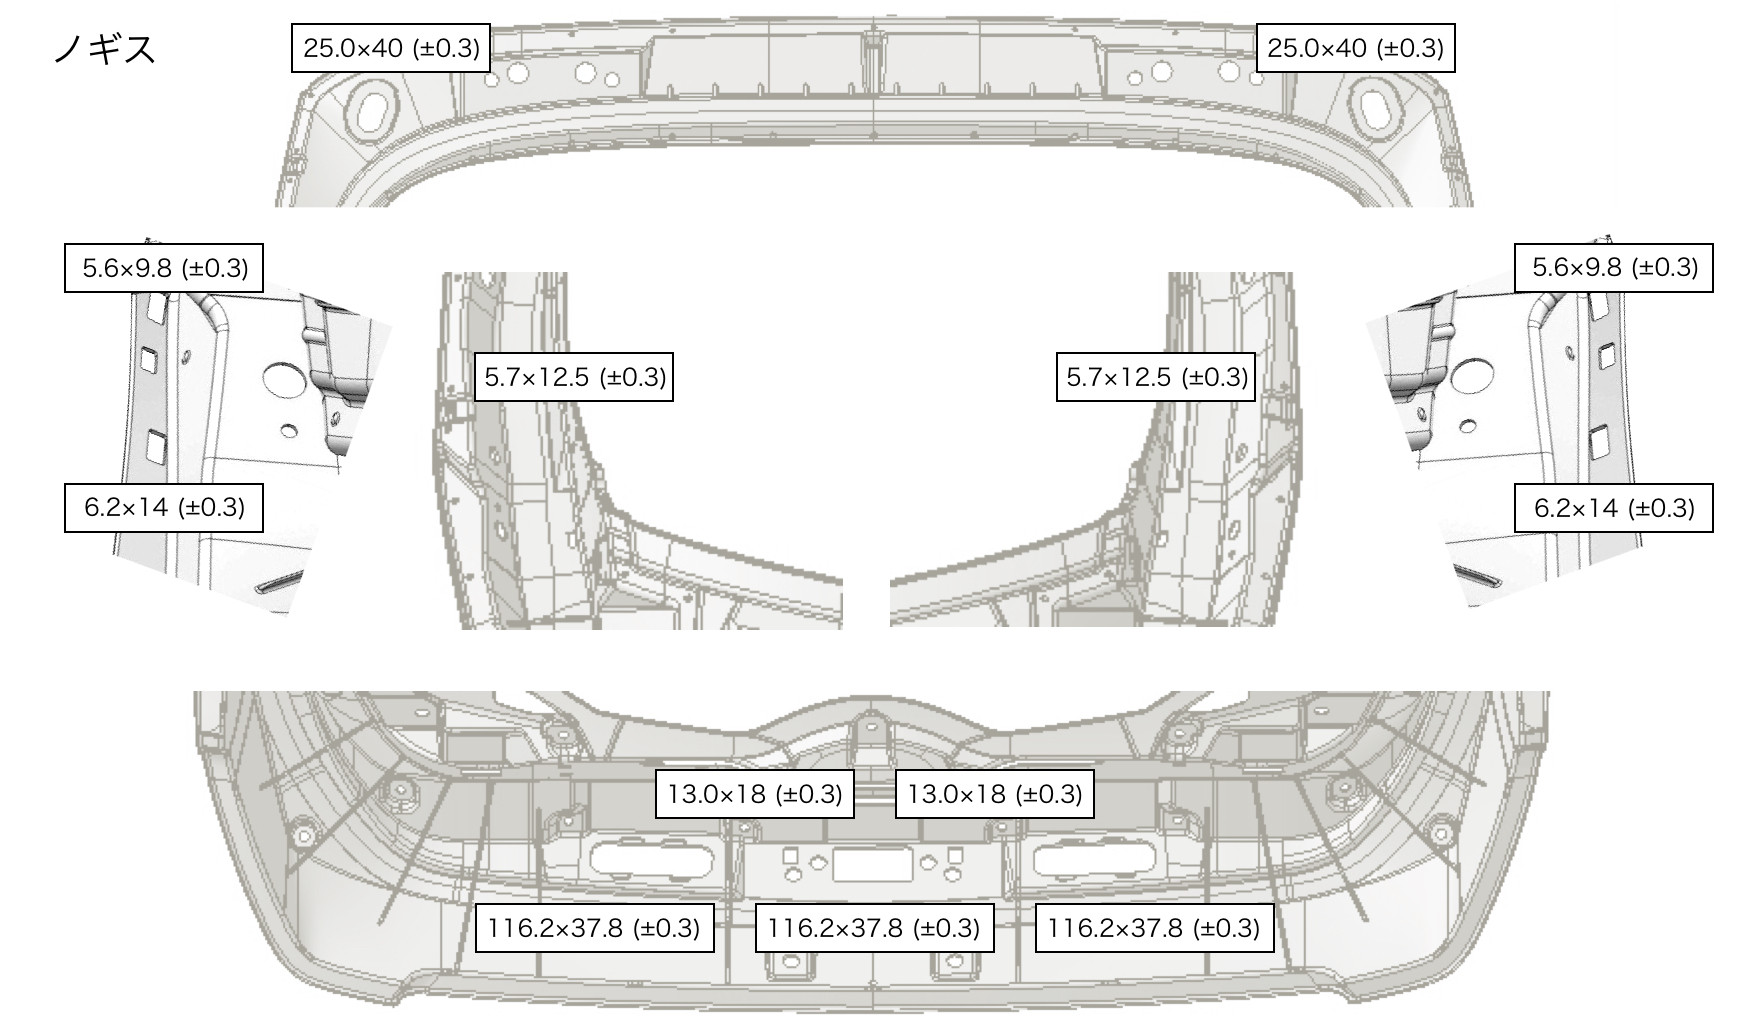
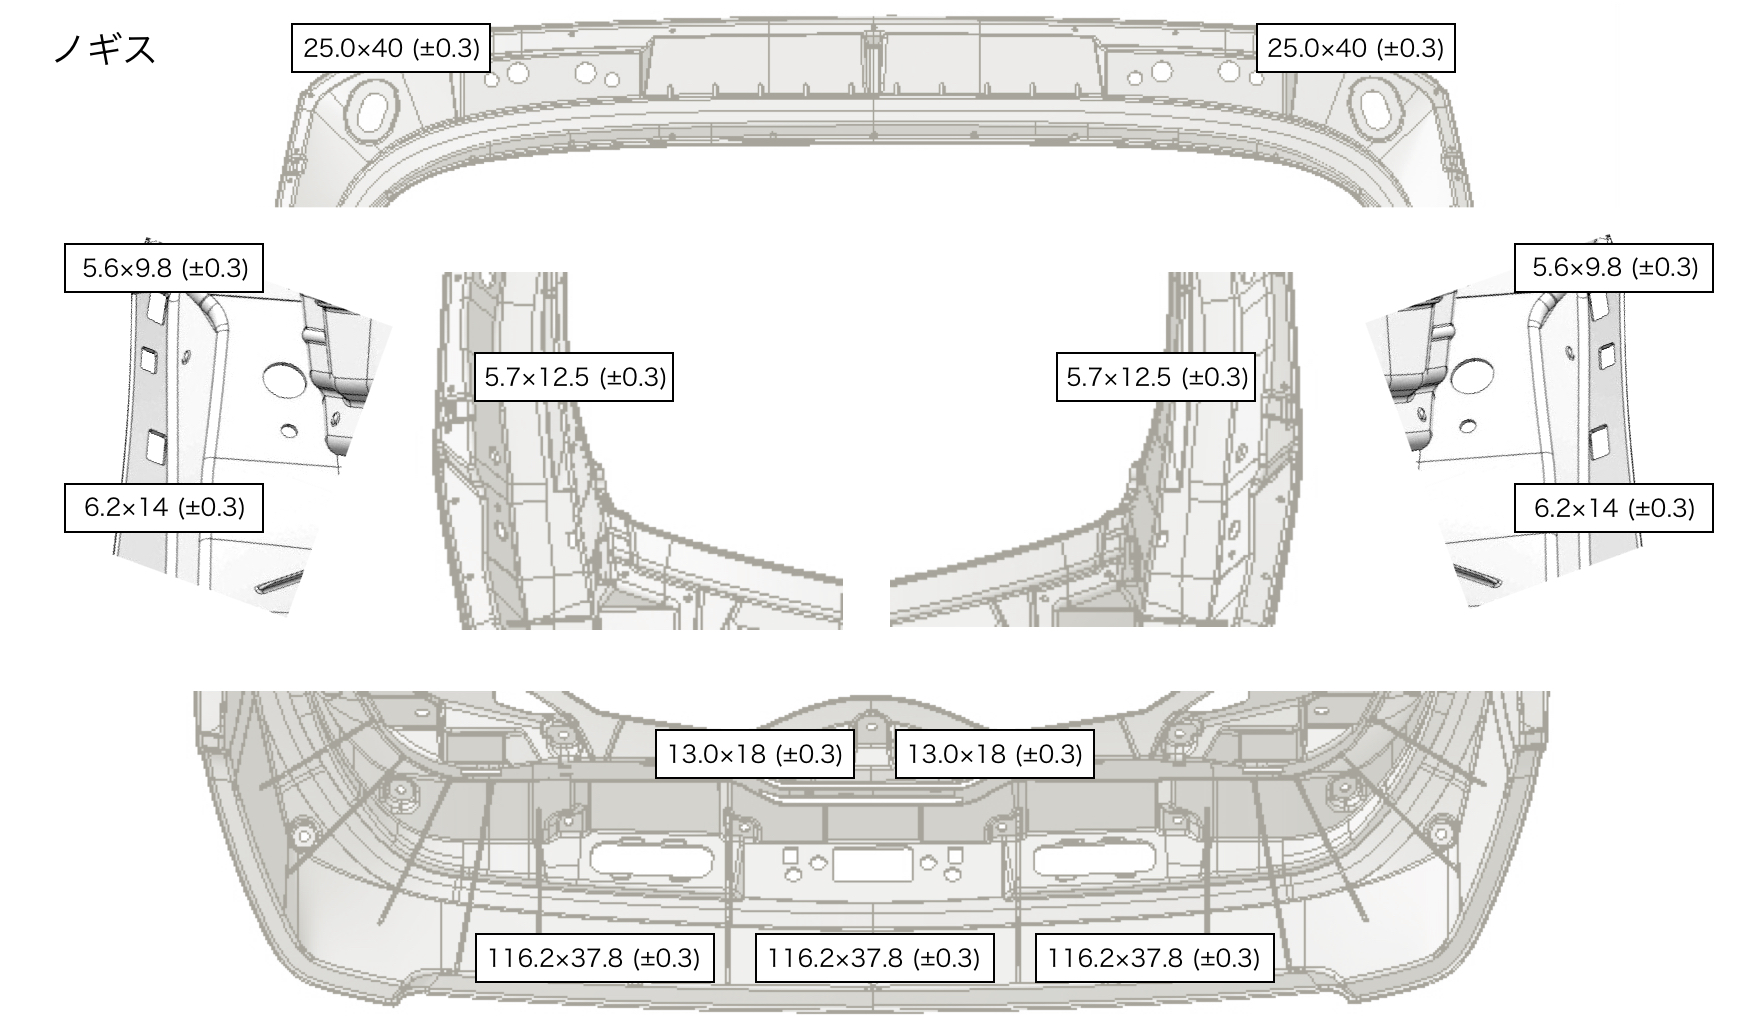
creat

Changed region(s): [[0.2793, 0.8699, 0.7448, 0.9631], [0.3724, 0.6835, 0.6517, 0.8078]]

diff --git a/database/seeds/Master/HoleTableSeeder.php b/database/seeds/Master/HoleTableSeeder.php
@@ -27,25 +27,163 @@ class HoleTableSeeder extends Seeder
             DB::statement('TRUNCATE TABLE ' . $table_name . ' CASCADE');
         }
 
+        $data = [
+            [
+                'figure_id'  => 4,
+                'point'      => '368,108',
+                'label'      => 10,
+                'direction'  => 'left',
+                'color'      => '0,0,0',
+                'border'     => 'dotted',
+                'shape'      => 'square',
+                'created_at' => $now,
+                'updated_at' => $now
+            ],[
+                'figure_id'  => 4,
+                'point'      => '371,106',
+                'label'      => 1,
+                'direction'  => 'right',
+                'color'      => '0,0,0',
+                'border'     => 'dotted',
+                'shape'      => 'square',
+                'created_at' => $now,
+                'updated_at' => $now
+            ],[
+                'figure_id'  => 4,
+                'point'      => '144,356',
+                'label'      => 28,
+                'direction'  => 'left',
+                'color'      => '0,0,0',
+                'border'     => 'dotted',
+                'shape'      => 'square',
+                'created_at' => $now,
+                'updated_at' => $now
+            ],[
+                'figure_id'  => 4,
+                'point'      => '151,444',
+                'label'      => 29,
+                'direction'  => 'left',
+                'color'      => '0,0,0',
+                'border'     => 'dotted',
+                'shape'      => 'square',
+                'created_at' => $now,
+                'updated_at' => $now
+            ],[
+                'figure_id'  => 4,
+                'point'      => '602,353',
+                'label'      => 17,
+                'direction'  => 'right',
+                'color'      => '0,0,0',
+                'border'     => 'dotted',
+                'shape'      => 'square',
+                'created_at' => $now,
+                'updated_at' => $now
+            ],[
+                'figure_id'  => 4,
+                'point'      => '595,438',
+                'label'      => 18,
+                'direction'  => 'right',
+                'color'      => '0,0,0',
+                'border'     => 'dotted',
+                'shape'      => 'square',
+                'created_at' => $now,
+                'updated_at' => $now
+            ],[
+                'figure_id'  => 4,
+                'point'      => '498,526',
+                'label'      => 42,
+                'direction'  => 'right',
+                'color'      => '0,0,0',
+                'border'     => 'dotted',
+                'shape'      => 'square',
+                'created_at' => $now,
+                'updated_at' => $now
+            ],[
+                'figure_id'  => 4,
+                'point'      => '231,526',
+                'label'      => 33,
+                'direction'  => 'left',
+                'color'      => '0,0,0',
+                'border'     => 'dotted',
+                'shape'      => 'square',
+                'created_at' => $now,
+                'updated_at' => $now
+            ],[
+                'figure_id'  => 4,
+                'point'      => '644,856',
+                'label'      => 119,
+                'direction'  => 'bottom',
+                'color'      => '0,0,0',
+                'border'     => 'dotted',
+                'shape'      => 'square',
+                'created_at' => $now,
+                'updated_at' => $now
+            ],[
+                'figure_id'  => 4,
+                'point'      => '786,851',
+                'label'      => 115,
+                'direction'  => 'top',
+                'color'      => '0,0,0',
+                'border'     => 'dotted',
+                'shape'      => 'square',
+                'created_at' => $now,
+                'updated_at' => $now
+            ],[
+                'figure_id'  => 4,
+                'point'      => '868,860',
+                'label'      => 113,
+                'direction'  => 'bottom',
+                'color'      => '0,0,0',
+                'border'     => 'dotted',
+                'shape'      => 'square',
+                'created_at' => $now,
+                'updated_at' => $now
+            ],[
+                'figure_id'  => 4,
+                'point'      => '951,852',
+                'label'      => 109,
+                'direction'  => 'top',
+                'color'      => '0,0,0',
+                'border'     => 'dotted',
+                'shape'      => 'square',
+                'created_at' => $now,
+                'updated_at' => $now
+            ],[
+                'figure_id'  => 4,
+                'point'      => '1094,855',
+                'label'      => 108,
+                'direction'  => 'bottom',
+                'color'      => '0,0,0',
+                'border'     => 'dotted',
+                'shape'      => 'square',
+                'created_at' => $now,
+                'updated_at' => $now
+            ],
+        ];
+
         /***** HARD CODE *****/
-        $img = ["x" => 1280, "y" => 1024, "margin" => 100, "arrow" => 80];
-        $hasHoles = [3, 4, 5, 6, 10, 11];
+        // $img = ["x" => 1280, "y" => 1024, "margin" => 100, "arrow" => 80];
+        // $hasHoles = [4, 5, 6, 7, 8, 9];
 
-        $data = [];
-        foreach ($hasHoles as $id) {
-            for ($i = 1; $i <= 100; $i++) { 
-                $x = rand($img["margin"], $img["x"] - $img["margin"]);
-                $y = rand($img["margin"], $img["y"] - $img["margin"]);
+        // $data = [];
+        // foreach ($hasHoles as $id) {
+        //     for ($i = 1; $i <= 100; $i++) { 
+        //         $x = rand($img["margin"], $img["x"] - $img["margin"]);
+        //         $y = rand($img["margin"], $img["y"] - $img["margin"]);
 
-                array_push($data, [
-                    'point'      => $x . ',' . $y,
-                    'sort'       => $i,
-                    'figure_id'  => $id,
-                    'created_at' => $now,
-                    'updated_at' => $now
-                ]);
-            }
-        }
+        //         array_push($data, [
+        //             'point'      => $x . ',' . $y,
+        //             'label'      => $i,
+        //             'direction'  => $i,
+        //             'color'      => $i,
+        //             'border'     => $i,
+        //             'shape'      => $i,
+        //             'figure_id'  => $id,
+        //             'created_at' => $now,
+        //             'updated_at' => $now
+        //         ]);
+        //     }
+        // }
 
         DB::table($table_name)->insert($data);
 

diff --git a/database/migrations/2016_09_01_000000_create_tables_related_to_manager.php b/database/migrations/2016_09_01_000000_create_tables_related_to_manager.php
@@ -273,7 +273,11 @@ class CreateTablesRelatedToManager extends Migration
         Schema::create('holes', function (Blueprint $table) {
             $table->increments('id');
             $table->string('point');
-            $table->integer('sort')->unsigned()->default(1);
+            $table->integer('label')->unsigned()->default(1);
+            $table->string('direction'); //ラベルの位置 top bottom left right
+            $table->string('color'); //0-0-0 RGBの-区切り
+            $table->string('border'); //dotted or solid
+            $table->string('shape'); //square or circle
             $table->integer('figure_id')->unsigned();
             $table->timestamps();
 
